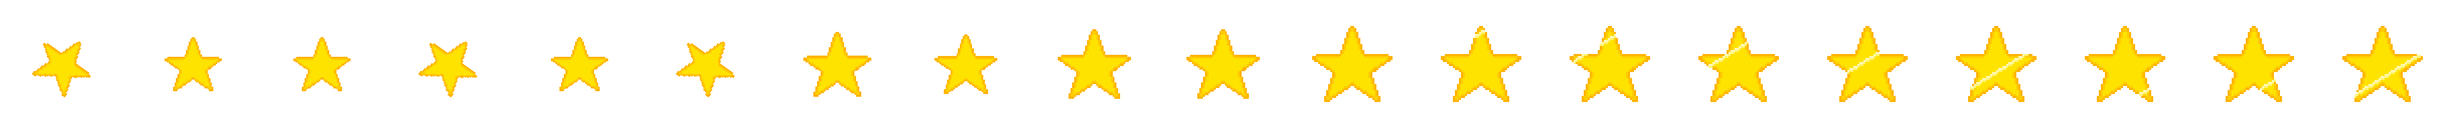
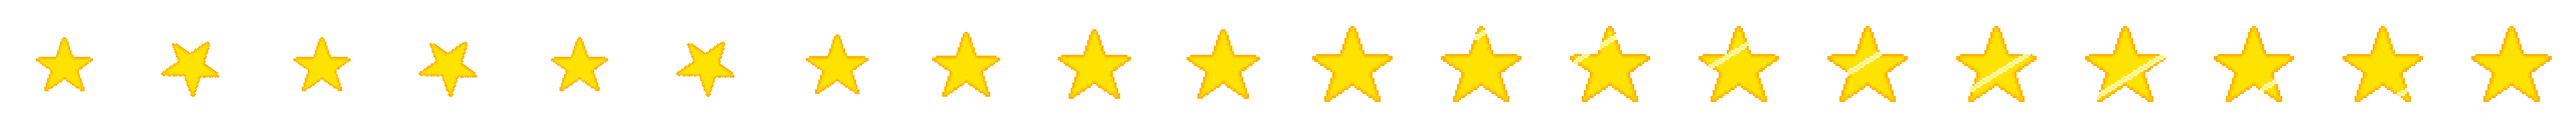
rotate then stop

Changed region(s): [[0.0, 0.2188, 1.0, 0.8125]]

diff --git a/core/src/edu/cornell/lilbiggames/cephalonaut/engine/controller/LevelCompleteMode.java b/core/src/edu/cornell/lilbiggames/cephalonaut/engine/controller/LevelCompleteMode.java
@@ -65,7 +65,7 @@ public class LevelCompleteMode extends MenuMode {
         displayFont = assets.getEntry("retro", BitmapFont.class);
 
         frame = 0;
-        starScoring = new FilmStrip(assets.getEntry("ui:star_scoring", Texture.class),1,19);
+        starScoring = new FilmStrip(assets.getEntry("ui:star_scoring", Texture.class),1,20);
         starScoring.setFrame(0);
         starIcon = assets.getEntry("ui:star", Texture.class);
 
@@ -101,6 +101,10 @@ public class LevelCompleteMode extends MenuMode {
         this.timeString = timeString;
     }
 
+    public void resetFrame() {
+        starScoring.setFrame(0);
+    }
+
     private void update(float delta){
         SoundController.killAllSound();
         inputController = InputController.getInstance();
@@ -120,7 +124,10 @@ public class LevelCompleteMode extends MenuMode {
         frame += delta * 10f;
         if (frame > 1) {
             frame--;
-            starScoring.setFrame((starScoring.getFrame() + 1) % starScoring.getSize());
+            if (starScoring.getFrame() == starScoring.getSize() - 1) {
+                return;
+            }
+            starScoring.setFrame(starScoring.getFrame() + 1);
         }
     }
 

diff --git a/core/src/edu/cornell/lilbiggames/cephalonaut/engine/GDXRoot.java b/core/src/edu/cornell/lilbiggames/cephalonaut/engine/GDXRoot.java
@@ -250,6 +250,7 @@ public class GDXRoot extends Game implements ScreenListener {
 			playMode.pause();
 			SoundController.killAllSound();
 			canvas.setCameraPos(canvas.getWidth()/2, canvas.getHeight()/2);
+			levelCompleteMode.resetFrame();
 			levelCompleteMode.setSelectedOption(0);
 			levelCompleteMode.setTimeString(playMode.getTimeString());
 			setScreen(levelCompleteMode);
